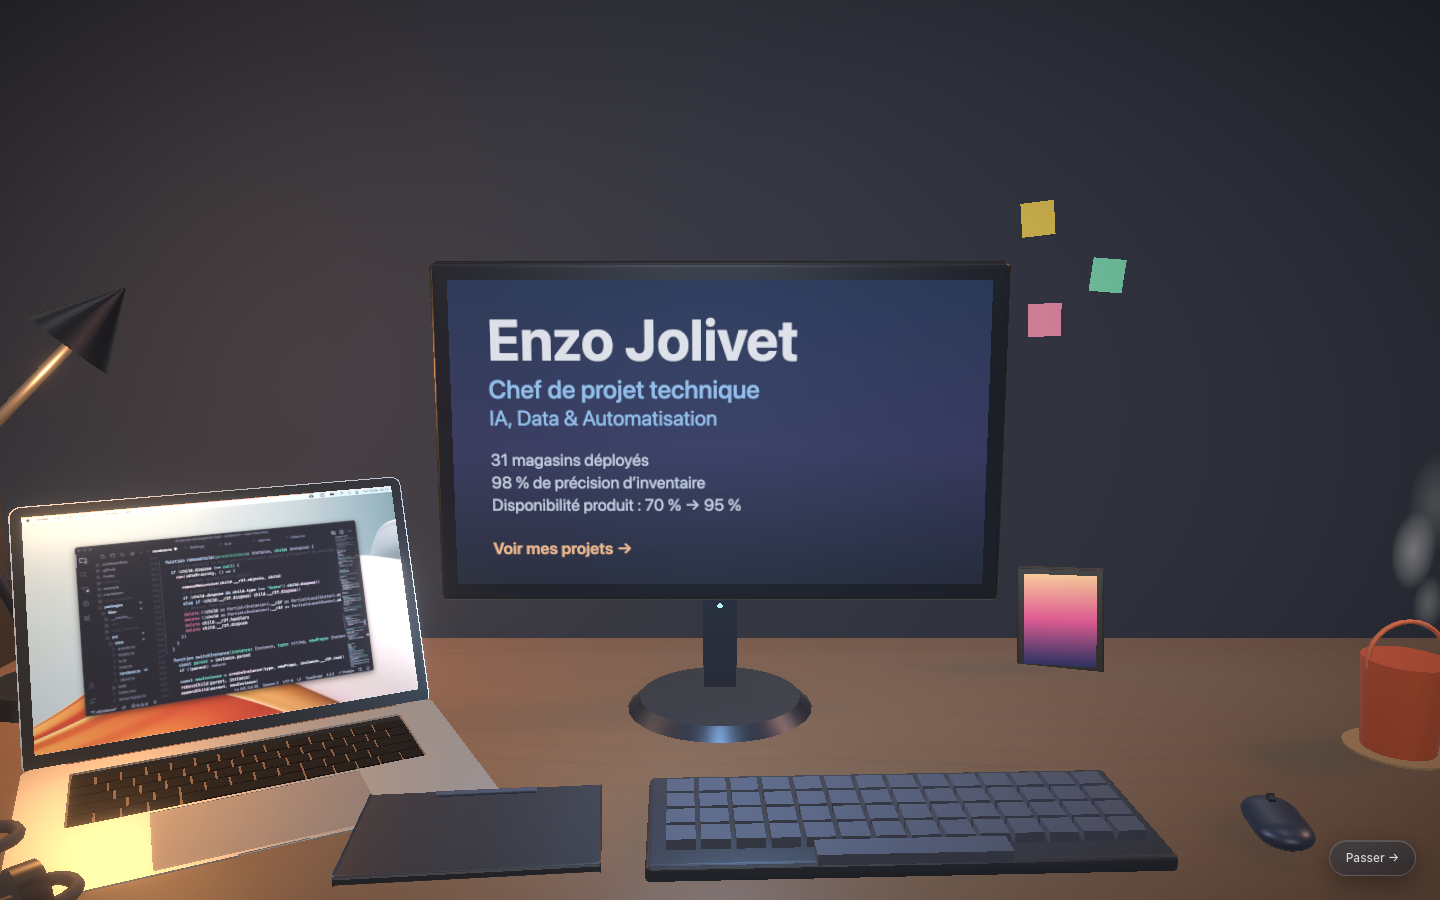
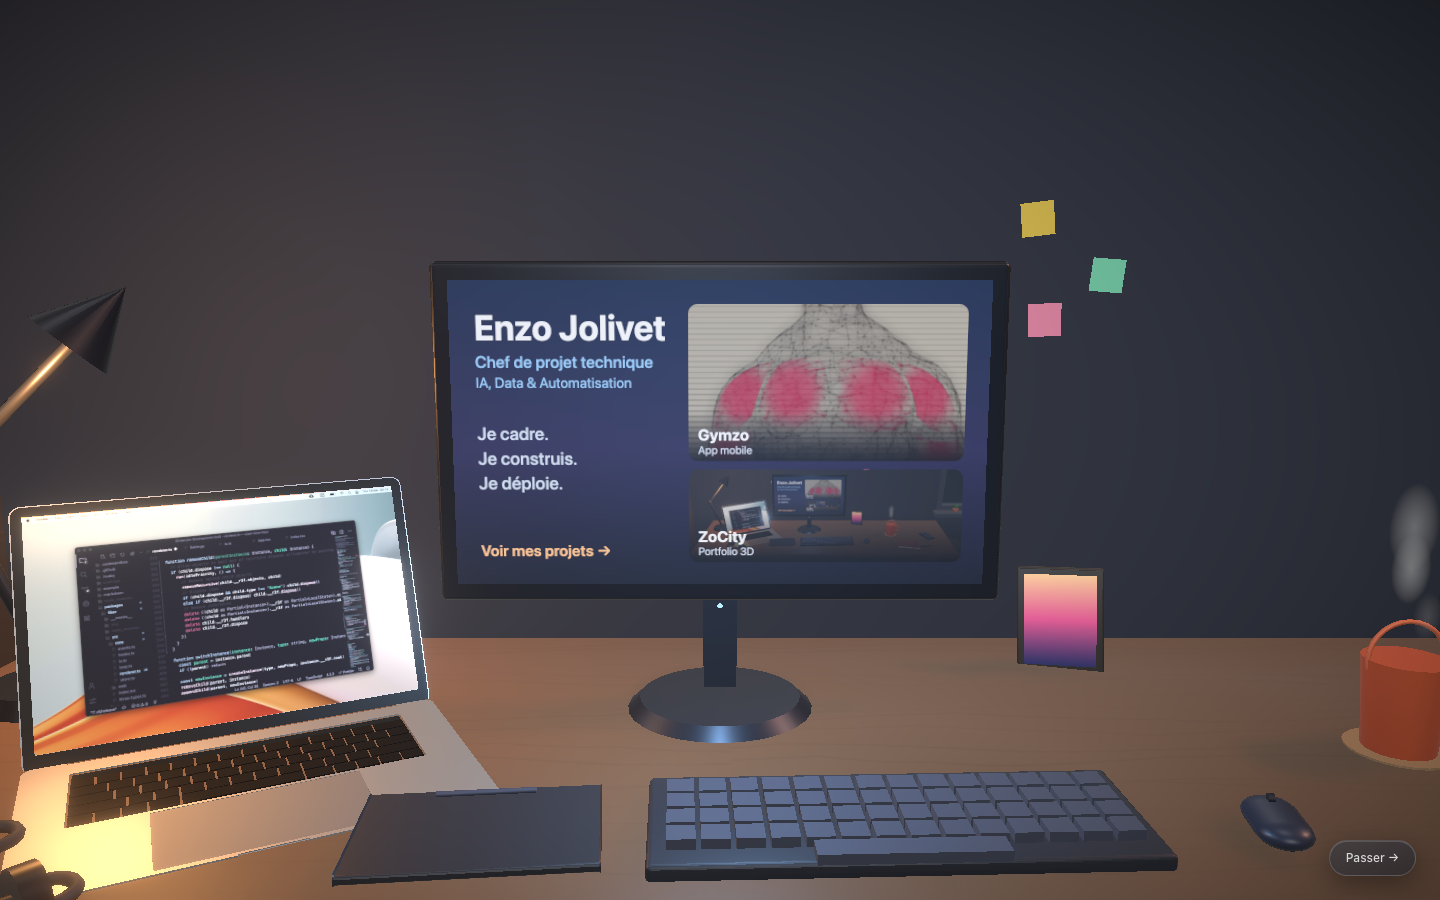
feat: show project cards on the monitor
The monitor draws the first three projects from PROJECTS next to the identity, so new projects appear on their own. The arrival text now lists web, mobile and machine learning, and ZoCity gets a real cover image.

Changed region(s): [[0.3125, 0.3111, 0.6875, 0.6222], [0.9688, 0.6222, 1.0, 0.6844], [0.9688, 0.5289, 1.0, 0.5911]]

diff --git a/src/utils/textures.ts b/src/utils/textures.ts
@@ -15,49 +15,139 @@ export function makeGradientTexture(stops: Array<[number, string]>, size = 256):
   return tex
 }
 
-/** Écran du PC : fond dégradé + carte d'identité, assez grande pour rester lisible depuis le plan d'ensemble. */
-export function makeScreenTexture(identity: {
-  name: string
-  role: string
-  specialty: string
-  proof: string[]
-}): THREE.CanvasTexture {
+const SCREEN_FONT = 'system-ui, -apple-system, "Segoe UI", Roboto, sans-serif'
+
+interface ScreenCard {
+  title: string
+  kind: string
+  image?: string
+  gradient: string
+}
+
+/** Rectangles des cartes : la première en grand, les suivantes côte à côte dessous. */
+function layoutScreenCards(count: number, x: number, y: number, width: number, height: number) {
+  const gap = 16
+  if (count === 1) return [{ x, y, width, height }]
+  const heroHeight = Math.round(height * 0.6)
+  const rest = count - 1
+  const smallWidth = (width - gap * (rest - 1)) / rest
+  return [
+    { x, y, width, height: heroHeight },
+    ...Array.from({ length: rest }, (_, i) => ({
+      x: x + i * (smallWidth + gap),
+      y: y + heroHeight + gap,
+      width: smallWidth,
+      height: height - heroHeight - gap,
+    })),
+  ]
+}
+
+function drawScreenCard(
+  ctx: CanvasRenderingContext2D,
+  card: ScreenCard,
+  image: HTMLImageElement | undefined,
+  rect: { x: number; y: number; width: number; height: number },
+) {
+  const { x, y, width, height } = rect
+  ctx.save()
+  ctx.beginPath()
+  ctx.roundRect(x, y, width, height, 18)
+  ctx.clip()
+
+  if (image) {
+    // cadrage "cover" : l'image remplit la carte sans se déformer
+    const scale = Math.max(width / image.width, height / image.height)
+    const w = image.width * scale
+    const h = image.height * scale
+    ctx.drawImage(image, x + (width - w) / 2, y + (height - h) / 2, w, h)
+    // l'écran est émissif : sans ce voile, une image claire brûle au bloom
+    ctx.fillStyle = 'rgba(12, 16, 30, 0.22)'
+    ctx.fillRect(x, y, width, height)
+  } else {
+    const colors = card.gradient.match(/#[0-9a-f]{6}/gi) ?? ['#1c2f55', '#31305e']
+    const grad = ctx.createLinearGradient(x, y, x + width, y + height)
+    colors.forEach((color, i) => grad.addColorStop(i / Math.max(colors.length - 1, 1), color))
+    ctx.fillStyle = grad
+    ctx.fillRect(x, y, width, height)
+  }
+
+  const scrim = ctx.createLinearGradient(0, y + height - 96, 0, y + height)
+  scrim.addColorStop(0, 'rgba(8, 10, 20, 0)')
+  scrim.addColorStop(1, 'rgba(8, 10, 20, 0.88)')
+  ctx.fillStyle = scrim
+  ctx.fillRect(x, y + height - 96, width, 96)
+
+  ctx.fillStyle = '#f4f7ff'
+  ctx.font = `700 30px ${SCREEN_FONT}`
+  ctx.fillText(card.title, x + 18, y + height - 40)
+  ctx.fillStyle = '#d5e2f7'
+  ctx.font = `400 21px ${SCREEN_FONT}`
+  ctx.fillText(card.kind, x + 18, y + height - 14)
+  ctx.restore()
+}
+
+/**
+ * Écran du PC : identité à gauche, cartes projets à droite (trois au plus).
+ * Les visuels arrivent en différé : la texture est redessinée à chaque image chargée.
+ */
+export function makeScreenTexture(
+  identity: { name: string; role: string; specialty: string; tagline: string[] },
+  projects: ScreenCard[],
+): THREE.CanvasTexture {
   const width = 1024
   const height = 586
   const canvas = document.createElement('canvas')
   canvas.width = width
   canvas.height = height
   const ctx = canvas.getContext('2d')!
-  const grad = ctx.createLinearGradient(0, 0, 0, height)
-  grad.addColorStop(0, '#1c2f55')
-  grad.addColorStop(0.55, '#31305e')
-  grad.addColorStop(1, '#141a2e')
-  ctx.fillStyle = grad
-  ctx.fillRect(0, 0, width, height)
-
-  const font = 'system-ui, -apple-system, "Segoe UI", Roboto, sans-serif'
-  const left = 72
-  ctx.textBaseline = 'alphabetic'
-  ctx.fillStyle = '#f4f7ff'
-  ctx.font = `700 108px ${font}`
-  ctx.fillText(identity.name, left, 150)
-  ctx.fillStyle = '#9ecfff'
-  ctx.font = `500 48px ${font}`
-  ctx.fillText(identity.role, left, 222)
-  ctx.font = `400 40px ${font}`
-  ctx.fillText(identity.specialty, left, 274)
-
-  ctx.fillStyle = '#d5e2f7'
-  ctx.font = `400 32px ${font}`
-  identity.proof.forEach((line, i) => ctx.fillText(line, left, 352 + i * 44))
-
-  ctx.fillStyle = '#ffc998'
-  ctx.font = `600 32px ${font}`
-  ctx.fillText('Voir mes projets →', left, 526)
-
+  const cards = projects.slice(0, 3)
+  const images = new Map<string, HTMLImageElement>()
+  const rects = layoutScreenCards(cards.length, 452, 44, 528, 498)
   const tex = new THREE.CanvasTexture(canvas)
   tex.colorSpace = THREE.SRGBColorSpace
   tex.anisotropy = 8
+
+  const draw = () => {
+    const grad = ctx.createLinearGradient(0, 0, 0, height)
+    grad.addColorStop(0, '#1c2f55')
+    grad.addColorStop(0.55, '#31305e')
+    grad.addColorStop(1, '#141a2e')
+    ctx.fillStyle = grad
+    ctx.fillRect(0, 0, width, height)
+
+    const left = 48
+    ctx.textBaseline = 'alphabetic'
+    ctx.fillStyle = '#f4f7ff'
+    ctx.font = `700 66px ${SCREEN_FONT}`
+    ctx.fillText(identity.name, left, 112)
+    ctx.fillStyle = '#9ecfff'
+    ctx.font = `500 31px ${SCREEN_FONT}`
+    ctx.fillText(identity.role, left, 164)
+    ctx.font = `400 27px ${SCREEN_FONT}`
+    ctx.fillText(identity.specialty, left, 202)
+
+    ctx.fillStyle = '#d5e2f7'
+    ctx.font = `500 34px ${SCREEN_FONT}`
+    identity.tagline.forEach((line, i) => ctx.fillText(line, left, 302 + i * 48))
+
+    ctx.fillStyle = '#ffc998'
+    ctx.font = `600 30px ${SCREEN_FONT}`
+    ctx.fillText('Voir mes projets →', left, 530)
+
+    cards.forEach((card, i) => drawScreenCard(ctx, card, card.image ? images.get(card.image) : undefined, rects[i]))
+    tex.needsUpdate = true
+  }
+
+  draw()
+  for (const card of cards) {
+    if (!card.image) continue
+    const image = new Image()
+    image.onload = () => {
+      images.set(card.image!, image)
+      draw()
+    }
+    image.src = card.image
+  }
   return tex
 }
 

diff --git a/index.html b/index.html
@@ -3,7 +3,7 @@
   <head>
     <meta charset="UTF-8" />
     <meta name="viewport" content="width=device-width, initial-scale=1.0" />
-    <meta name="description" content="Enzo Jolivet, chef de projet technique à Paris (IA, Data &amp; Automatisation) : application RFID déployée en 31 magasins, réapprovisionnement par machine learning et projets construits de bout en bout." />
+    <meta name="description" content="Enzo Jolivet, chef de projet technique à Paris (IA, Data &amp; Automatisation). Web, mobile et machine learning, du cadrage au déploiement." />
     <title>Enzo Jolivet — Chef de projet technique, IA, Data &amp; Automatisation</title>
     <link rel="canonical" href="https://enzojolivet.com/" />
     <link rel="icon" type="image/svg+xml" href="/favicon.svg" />
@@ -11,7 +11,7 @@
     <meta property="og:type" content="website" />
     <meta property="og:url" content="https://enzojolivet.com/" />
     <meta property="og:title" content="Enzo Jolivet — Chef de projet technique, IA, Data &amp; Automatisation" />
-    <meta property="og:description" content="Du cadrage au déploiement terrain : application RFID déployée en 31 magasins, disponibilité produit de 70 % à 95 %, et des projets construits de bout en bout." />
+    <meta property="og:description" content="Je cadre, je construis et je déploie des projets web, mobile et machine learning." />
     <meta property="og:image" content="https://enzojolivet.com/og-image.png" />
     <meta property="og:image:width" content="1200" />
     <meta property="og:image:height" content="630" />
@@ -19,7 +19,7 @@
 
     <meta name="twitter:card" content="summary_large_image" />
     <meta name="twitter:title" content="Enzo Jolivet — Chef de projet technique, IA, Data &amp; Automatisation" />
-    <meta name="twitter:description" content="Du cadrage au déploiement terrain : application RFID déployée en 31 magasins, disponibilité produit de 70 % à 95 %, et des projets construits de bout en bout." />
+    <meta name="twitter:description" content="Je cadre, je construis et je déploie des projets web, mobile et machine learning." />
     <meta name="twitter:image" content="https://enzojolivet.com/og-image.png" />
 
     <script type="application/ld+json">
@@ -29,6 +29,7 @@
         "name": "Enzo Jolivet",
         "jobTitle": "Chef de projet technique — IA, Data & Automatisation",
         "url": "https://enzojolivet.com/",
+        "knowsAbout": ["Intelligence artificielle", "Machine learning", "Automatisation", "Développement web", "Développement mobile"],
         "image": "https://enzojolivet.com/og-image.png",
         "sameAs": [
           "https://github.com/Enzojol",

diff --git a/src/data/content.ts b/src/data/content.ts
@@ -7,12 +7,14 @@ export const IDENTITY = {
   name: 'Enzo Jolivet',
   role: 'Chef de projet technique',
   specialty: 'IA, Data & Automatisation',
-  pitch: 'Du cadrage au déploiement terrain : je pilote le produit et je construis les outils.',
-  proof: ['31 magasins déployés', '98 % de précision d’inventaire', 'Disponibilité produit : 70 % → 95 %'],
+  domains: ['Web', 'Mobile', 'Machine learning'],
+  tagline: ['Je cadre.', 'Je construis.', 'Je déploie.'],
 }
 
 export interface Project {
   title: string
+  /** Nature du projet en deux mots, affichée sur les cartes de l'écran du PC. */
+  kind: string
   description: string
   tech: string[]
   github?: string
@@ -25,9 +27,11 @@ export interface Project {
   gradient: string
 }
 
+/** L'ordre compte : les trois premiers s'affichent sur l'écran du PC, le premier en grand. */
 export const PROJECTS: Project[] = [
   {
     title: 'Gymzo',
+    kind: 'App mobile',
     description:
       'Un carnet de musculation mis en scène comme un HUD de jeu : un corps scanné s’allume muscle par muscle, avec un feed privé entre amis.',
     tech: ['React Native', 'Expo', 'TypeScript', 'FastAPI', 'PostgreSQL'],
@@ -37,10 +41,12 @@ export const PROJECTS: Project[] = [
   },
   {
     title: 'ZoCity',
+    kind: 'Portfolio 3D',
     description:
       'Ce portfolio : un bureau 3D immersif où chaque objet ouvre une section. React Three Fiber, éclairage narratif, interface Liquid Glass.',
     tech: ['React', 'Three.js', 'R3F', 'TypeScript', 'Zustand'],
     github: 'https://github.com/Enzojol/ZoCity',
+    image: '/zocity/cover.jpg',
     gradient: 'linear-gradient(135deg, #1d2b4f 0%, #6d5ae8 55%, #ff9e6d 100%)',
   },
 ]
@@ -52,6 +58,7 @@ export interface SkillCategory {
 }
 
 export const SKILLS: SkillCategory[] = [
+  { name: 'IA & Data', accent: '#c3a6ff', items: ['Machine learning', 'Autone', 'TensorFlow', 'SQL', 'PostgreSQL', 'MongoDB'] },
   {
     name: 'Pilotage & Produit',
     accent: '#ffb066',
@@ -59,7 +66,6 @@ export const SKILLS: SkillCategory[] = [
   },
   { name: 'Frontend', accent: '#7ec3ff', items: ['React', 'React Native', 'Expo', 'Angular', 'TypeScript', 'HTML/CSS'] },
   { name: 'Backend', accent: '#8ef0c0', items: ['Python', 'FastAPI', 'Java (Spring Boot)', 'PHP (Symfony)', 'C / C++'] },
-  { name: 'Data & ML', accent: '#c3a6ff', items: ['SQL', 'PostgreSQL', 'MongoDB', 'Autone', 'TensorFlow'] },
   { name: 'Infra & Ops', accent: '#7fe3e0', items: ['Docker', 'Proxmox', 'Cloudflare Tunnel', 'GitHub Actions', 'Grafana', 'Git'] },
   { name: '3D & Créatif', accent: '#ff9db8', items: ['Three.js', 'React Three Fiber', 'GLTF', 'Motion design'] },
 ]

diff --git a/src/components/scene/objects/Computer.tsx b/src/components/scene/objects/Computer.tsx
@@ -5,7 +5,7 @@ import * as THREE from 'three'
 import { Interactive } from '@/components/scene/Interactive'
 import { ContactShadow } from '@/components/scene/ContactShadow'
 import { useExperience } from '@/stores/useExperience'
-import { IDENTITY } from '@/data/content'
+import { IDENTITY, PROJECTS } from '@/data/content'
 import { makeScreenTexture } from '@/utils/textures'
 import { sfx } from '@/utils/audio'
 
@@ -33,7 +33,7 @@ function useIntroTimeline() {
 /** Moniteur principal — section "Mes projets". L'écran scintille très légèrement. */
 export function Computer() {
   const screen = useRef<THREE.Mesh>(null)
-  const wallpaper = useMemo(() => makeScreenTexture(IDENTITY), [])
+  const wallpaper = useMemo(() => makeScreenTexture(IDENTITY, PROJECTS), [])
   useIntroTimeline()
 
   useFrame((state, delta) => {

diff --git a/src/components/ui/Hud.tsx b/src/components/ui/Hud.tsx
@@ -19,12 +19,7 @@ function Identity({ isMobile }: { isMobile: boolean }) {
       <div className={`font-medium text-[#ffc998] ${isMobile ? 'mt-1 text-[14px] leading-snug' : 'mt-3 text-[20px]'}`}>
         {IDENTITY.role} — {IDENTITY.specialty}
       </div>
-      <p className={`text-white/70 ${isMobile ? 'mt-2 text-[13px] leading-snug' : 'mt-2.5 text-[15px] leading-relaxed'}`}>{IDENTITY.pitch}</p>
-      <ul className={`flex flex-wrap gap-x-4 gap-y-1 text-white/65 ${isMobile ? 'mt-2 text-[12px]' : 'mt-3 text-[13px]'}`}>
-        {IDENTITY.proof.map((line) => (
-          <li key={line}>{line}</li>
-        ))}
-      </ul>
+      <div className={`font-semibold text-white ${isMobile ? 'mt-2 text-[15px]' : 'mt-3 text-[18px]'}`}>{IDENTITY.domains.join(' · ')}</div>
     </div>
   )
 }

diff --git a/src/App.tsx b/src/App.tsx
@@ -27,12 +27,7 @@ function AccessibleIntro() {
       <h1>
         {IDENTITY.name} — {IDENTITY.role}, {IDENTITY.specialty}
       </h1>
-      <p>{IDENTITY.pitch}</p>
-      <ul>
-        {IDENTITY.proof.map((line) => (
-          <li key={line}>{line}</li>
-        ))}
-      </ul>
+      <p>{IDENTITY.domains.join(', ')}.</p>
       <h2>Projets</h2>
       <ul>
         {PROJECTS.map((p) => (

diff --git a/README.md b/README.md
@@ -4,7 +4,7 @@
 
 Portfolio immersif : on n'arrive pas sur un site, on entre dans un bureau de
 développeur en fin de journée. La caméra traverse la pièce, le PC s'allume sur
-mon nom et mes résultats, puis chaque objet du bureau ouvre une section :
+mon nom et mes projets, puis chaque objet du bureau ouvre une section :
 
 ![Le bureau en fin de journée — la lumière guide le regard](docs/screenshots/desk-hero.png)
 
